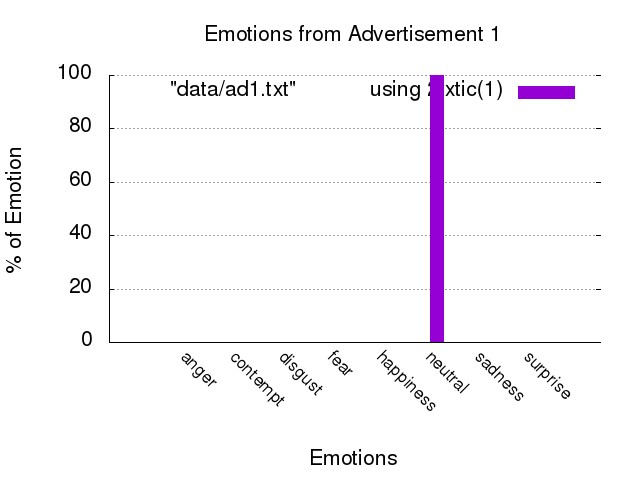
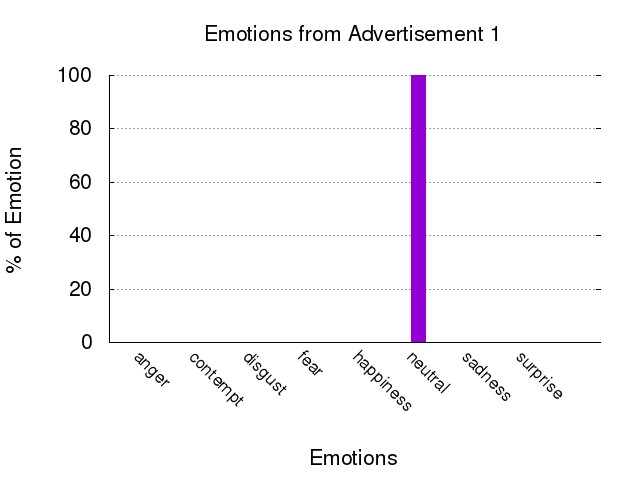
Second final

diff --git a/graph_creator.py b/graph_creator.py
@@ -9,7 +9,8 @@ def get_graph(ad_num=0):
     #writes a script with the input ad given.
     #if an ad_num is given, the function will search for the bat file and output the graph as "graphs/ad#{ad_num}.jpg
     #if no ad_num is given, or if ad_num is 0 the overall graph will be greated in overall/overall.jpg
-    
+    #returns the location of the graph made
+
     def add_colors(str1, str2, str3=''):
         #adds the colors to the corrosponding emotions
         pass
@@ -19,21 +20,21 @@ def get_graph(ad_num=0):
         s = ""
         for i in range(len(feelings)):
             s+= "using " + str(i + 2) + " t \"" + feelings[i] + "\""
-            if i < len(feelings):
-                s+= ",\n '' "
+            if i < len(feelings) - 1:
+                s+= ", ''  "
         return s
 
     #the specific properties of the dat_file script, look below
     dic_ad  = {"output_file" : "graphs/ad" + str(ad_num) + ".jpg", "title" : "Emotions from Advertisement " + str(ad_num), 
         "x_label" : "Emotions", "y_label" : "% of Emotion", "x_scale" :"set xrange [-0.5:8.5]", 
-        "y_scale": "set autoscale y", "set_key": "", "input_file": "data/ad" + str(ad_num) + ".txt",  "plot_type": "", "x_fonts":"set xtics nomirror rotate by -45 scale 0 font \",13\"",
+        "y_scale": "set autoscale y", "set_key": "unset key", "input_file": "data/ad" + str(ad_num) + ".txt",  "plot_type": "", "x_fonts":"set xtics nomirror rotate by -45 scale 0 font \",13\"",
         "plot_style" : "using 2:xtic(1)"
     }
 
-    dic_overall = {"output_file" : "overall/overall.jpg", "title" : "Emotions from all the Advertisements", 
-        "x_label" : "Advertisement Number", "y_label" : "% Total Emotions", "x_scale" : "set autoscale x" , 
+    dic_overall = {"output_file" : "overall/overall.jpg", "title" : "Emotions from all the Advertisements",
+        "x_label" : "Advertisement Number", "y_label" : "% Total Emotions", "x_scale" : "set xrange [*<0:8<*]" , 
         "y_scale" : "set yrange[0:100]", "input_file": "overall/overall.txt", "plot_type": "set style histogram rowstacked",  
-        "plot_style" : add_emotions(), "set_key": "set key right"
+        "plot_style" : add_emotions(), "set_key": "set key right", "x_fonts":""
         #"""using 2 t "Happy" lt rgb "green", '' using 3 t "Sad" lt rgb "gray", '' using 4 t "Surprised" lt rgb "yellow" """
     }
 
@@ -48,6 +49,8 @@ def get_graph(ad_num=0):
         
     set output '$output_file'
     $set_key
+    set key font ",8"
+    set key spacing 0.5
     set grid y
 
     set style data histogram
@@ -78,7 +81,7 @@ def get_graph(ad_num=0):
     #execute the script
     os.system("gnuplot -e \"filename=\'" + dic["input_file"] + "\'\" " + gnuplot_name)
     #os.system("rm " + gnuplot_name)
-
+    return dic['output_file']    
 
 
 

diff --git a/data_parser.py b/data_parser.py
@@ -1,30 +1,39 @@
 #created by Frank Liu
 #this class contains methods to edit all the bat files as required
 from collections import OrderedDict
+from graph_creator import feelings
+import os, os.path
 
 spacing = "\t\t"
-def summary_data_file(ad_num):
+def summary_data_file():
     #adds an image onto the bat file inside the dat file folder
-    data_file = open("overall/ad" + str(ad_num) + ".txt", "w")
-
+    data_file = open("overall/overall.txt", "w")
     s = "#" + spacing
     for i in feelings:
         s += str(i) + spacing
     data_file.write(s + "\n")
-
+    
     #need an empty line so the starting index is 0 not 1 in the graph
     s = "0" + spacing
     for i in feelings:
         s += str(0) + spacing
     data_file.write(s + "\n")
-    data_file.close()
+   
+    files = os.listdir("data") 
 
-    data_file_name = "data/ad" + str(ad_num) + ".txt"
-    s = str(pic_num) + spacing
-    for i in dictionary['scores'].values():
-        s += str(round(i * 100, 2)) + spacing
-    data_file.write(s + "\n")
-
+    a = 0
+    for i in files:
+        a+= 1
+        sample_file = open("data/" + i, "r")
+        lines = sample_file.read().split("\n")
+        s = str(a) + spacing
+        for line_n in range(1, len(lines)):
+            line = lines[line_n]
+            number = line[line.rfind("\t") + 1:len(line)]
+            s += spacing + str(number)
+        sample_file.close()
+        data_file.write(s + "\n")
+        
 
 def to_dictionary(json):
     #converts the json to an ordered dictionary

diff --git a/main.py b/main.py
@@ -1,13 +1,29 @@
 #created by Frank Liu
 #this class will tie all the methods together
 from emotions import get_emotions
-from data_parser import to_dictionary, add_data_file
+from data_parser import to_dictionary, add_data_file, summary_data_file
 from graph_creator import get_graph
+import capture
 #return_value = get_emotions('face.jpg')
+ad_num = 0
 
-return_value = [{'faceRectangle': {'top': 128, 'height': 207, 'width': 207, 'left': 57}, 'faceId': 'a45ca2ab-f64b-4018-8351-b835b72e0ca1', 'faceAttributes': {'emotion': {'disgust': 0.0, 'sadness': 0.0, 'happiness': 0.0, 'contempt': 0.0, 'anger': 0.0, 'fear': 0.0, 'neutral': 1.0, 'surprise': 0.0}}}]
-add_data_file(1, to_dictionary(return_value))
-get_graph(1)
+def get_emotions_graph(image):
+    #returns an the location of the graph made for the given ads
+    add_data_file(ad_num, to_dictionary(get_emotions(image)))
+    return get_graph(ad_num)
 
+def get_overall_graph():
+    summary_data_file()
+    return get_graph()
 
+def next_ad_number():
+    #helper method
+    global ad_num
+    ad_num += 1
+    return ad_num
 
+def capture_image():
+    #returns the image location that is captured
+    return capture.capture(next_ad_number())
+
+capture_image()

diff --git a/capture.py b/capture.py
@@ -1,0 +1,21 @@
+# needed to capture image
+import cv2
+# Import the base64 encoding library to encode image
+ 
+
+def capture(ad_num):
+    #Camera 0 = webcam for laptop, this should be changed for USB camera
+    camera_port = 0
+     
+    camera = cv2.VideoCapture(camera_port)#creates camera object using webcam index
+     
+    def get_image():#gets single image
+        retval, im = camera.read()
+        return im
+	
+    camera_capture = get_image()
+    file_name = "images/ad" + str(ad_num) + ".jpg" #file path for the given snapShot
+    
+    cv2.imwrite(file_name, camera_capture)
+    del(camera)#deletes camera in order to create another later
+    return file_name

diff --git a/emotions.py b/emotions.py
@@ -4,6 +4,7 @@ import requests
 def get_emotions(image):
     #gives the emotions of the person on the images
     #throws an exception if the image is faulty or if the internet sucks
+    #param image location
     image_url = '' #maybe used for a future use
     params = {
         'returnFaceAttributes': 'emotion',
